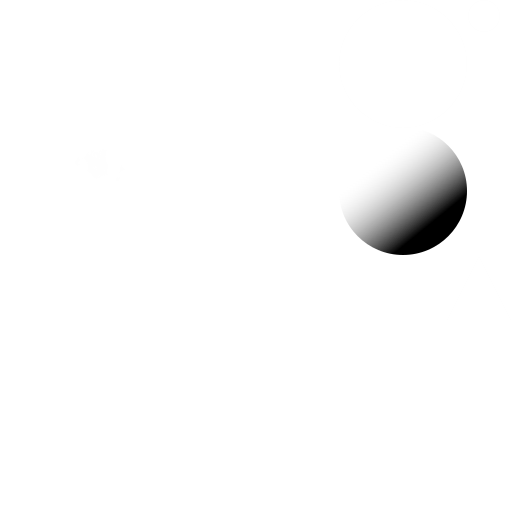
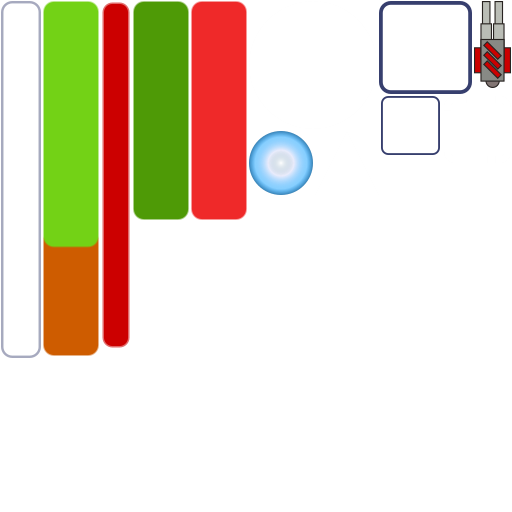
IGDC-159 Merged atlases

Changed region(s): [[0.0, 0.0, 0.625, 0.7188], [0.6562, 0.0, 1.0, 0.5]]

diff --git a/app/game/rpg-game/scenes/treasure.scene.ts b/app/game/rpg-game/scenes/treasure.scene.ts
@@ -47,7 +47,7 @@ export class TreasureScene extends Scene implements IRenderable {
   load(): Promise<void> {
     console.log('Treasure scene is loaded');
     this.initGui();
-    this.renderHelper = new RenderHelper(GLOBAL.assets.font, GLOBAL.assets.planetMaterial);
+    this.renderHelper = new RenderHelper(GLOBAL.assets.font, GLOBAL.assets.solarMaterial);
 
     this.title = new DialogBox(120);
 
@@ -71,7 +71,7 @@ export class TreasureScene extends Scene implements IRenderable {
     this.playerInventory.onClick = (cell) => this.onInventoryCellClick(cell);
 
     this.selectedCellBorder = new Sprite();
-    const selectedCellRegion = GLOBAL.assets.planetAtlas.getRegion('inventory_cell_selected.png');
+    const selectedCellRegion = GLOBAL.assets.solarAtlas.getRegion('inventory_cell_selected.png');
     this.selectedCellBorder.setTextureRegion(selectedCellRegion);
     this.selectedCellBorder.setVerticesColor(0.7, 1.0, 0.7, 1.0);
     this.selectedCellBorder.position.set(-100, -100, 10);
@@ -120,7 +120,7 @@ export class TreasureScene extends Scene implements IRenderable {
     this.guiSpriteBatch = new SpriteBatch();
     this.guiTextBatch = new TextBatch(GLOBAL.assets.font);
     this.guiManager = new GuiManager(
-      GLOBAL.assets.planetMaterial,
+      GLOBAL.assets.solarMaterial,
       this.guiSpriteBatch,
       this.guiTextBatch,
       GLOBAL.assets.guiCamera,

diff --git a/app/game/rpg-game/scenes/planet.scene.ts b/app/game/rpg-game/scenes/planet.scene.ts
@@ -57,7 +57,7 @@ export class PlanetScene extends Scene implements IRenderable {
   load(): Promise<void> {
     this.initGui();
 
-    this.renderHelper = new RenderHelper(GLOBAL.assets.font, GLOBAL.assets.planetMaterial);
+    this.renderHelper = new RenderHelper(GLOBAL.assets.font, GLOBAL.assets.solarMaterial);
 
     this.player = Player.build(PLANET_GAME_STATE.player, this.guiManager);
     this.shop = new Shop(PLANET_GAME_STATE.planet, 480, 260, this.guiManager);
@@ -118,7 +118,7 @@ export class PlanetScene extends Scene implements IRenderable {
     this.guiSB = new SpriteBatch();
     this.guiTB = new TextBatch(GLOBAL.assets.font);
     this.guiManager = new GuiManager(
-      GLOBAL.assets.planetMaterial,
+      GLOBAL.assets.solarMaterial,
       this.guiSB,
       this.guiTB,
       GLOBAL.assets.guiCamera,
@@ -158,7 +158,7 @@ export class PlanetScene extends Scene implements IRenderable {
     this.noMoneyText.visible = false;
 
     this.selectedCellBorder = new Sprite();
-    const selectedCellRegion = GLOBAL.assets.planetAtlas.getRegion('inventory_cell_selected.png');
+    const selectedCellRegion = GLOBAL.assets.solarAtlas.getRegion('inventory_cell_selected.png');
     this.selectedCellBorder.setTextureRegion(selectedCellRegion);
     this.selectedCellBorder.setVerticesColor(0.7, 1.0, 0.7, 1.0);
     this.selectedCellBorder.position.set(-100, -100, 10);

diff --git a/app/game/rpg-game/assets/assets.ts b/app/game/rpg-game/assets/assets.ts
@@ -9,7 +9,7 @@ import { Camera } from '../../../engine/scene/camera';
 import { AudioManager } from '../../../engine/sound/audio-manager';
 import { DEFAULT_FONT, DEFAULT_MATERIAL, DEFAULT_SHADER } from './default';
 import { MUSIC_DATA, SOUNDS_DATA } from './sound.data';
-import { DEFAULT_ATLAS_DATA, PLANET_ATLAS_DATA } from './textures';
+import { DEFAULT_ATLAS_DATA } from './textures';
 
 export class Assets {
   shader: ShaderProgram;
@@ -17,9 +17,6 @@ export class Assets {
 
   solarAtlas: TextureAtlas;
   solarMaterial: Material;
-
-  planetAtlas: TextureAtlas;
-  planetMaterial: Material;
 
   font: Font;
 
@@ -49,10 +46,6 @@ export class Assets {
     DEFAULT_MATERIAL.textures[0].texture = undefined;
     DEFAULT_MATERIAL.textures[0].textureAtlas = this.solarAtlas;
     this.solarMaterial = await this.loaders.loadMaterial(DEFAULT_MATERIAL);
-
-    this.planetAtlas = await this.loaders.loadTextureAtlas(PLANET_ATLAS_DATA);
-    DEFAULT_MATERIAL.textures[0].textureAtlas = this.planetAtlas;
-    this.planetMaterial = await this.loaders.loadMaterial(DEFAULT_MATERIAL);
 
     await soundLoading;
 

diff --git a/app/game/rpg-game/scenes/defeated.scene.ts b/app/game/rpg-game/scenes/defeated.scene.ts
@@ -24,10 +24,10 @@ export class DefeatedMenuScene extends Scene implements IRenderable {
   }
 
   load(): Promise<void> {
-    this.renderHelper = new RenderHelper(GLOBAL.assets.font, GLOBAL.assets.planetMaterial);
+    this.renderHelper = new RenderHelper(GLOBAL.assets.font, GLOBAL.assets.solarMaterial);
 
     this.guiManager = new GuiManager(
-      GLOBAL.assets.planetMaterial,
+      GLOBAL.assets.solarMaterial,
       this.renderHelper.spriteBatch,
       this.renderHelper.textBatch,
       GLOBAL.assets.guiCamera,
@@ -58,7 +58,7 @@ export class DefeatedMenuScene extends Scene implements IRenderable {
     this.background = new Sprite(renderer.width - 10, renderer.height - 10, new Vector2(0, 0));
     this.background.position.set(5, 5, 30);
     this.background.setVerticesColor(0, 0, 0, 0.8);
-    this.background.setTextureRegion(GLOBAL.assets.planetAtlas.getRegion('blank.png'), false);
+    this.background.setTextureRegion(GLOBAL.assets.solarAtlas.getRegion('blank.png'), false);
 
     return super.load();
   }

diff --git a/app/game/rpg-game/scenes/start.scene.ts b/app/game/rpg-game/scenes/start.scene.ts
@@ -24,10 +24,10 @@ export class StartMenuScene extends Scene implements IRenderable {
   }
 
   load(): Promise<void> {
-    this.renderHelper = new RenderHelper(GLOBAL.assets.font, GLOBAL.assets.planetMaterial);
+    this.renderHelper = new RenderHelper(GLOBAL.assets.font, GLOBAL.assets.solarMaterial);
 
     this.guiManager = new GuiManager(
-      GLOBAL.assets.planetMaterial,
+      GLOBAL.assets.solarMaterial,
       this.renderHelper.spriteBatch,
       this.renderHelper.textBatch,
       GLOBAL.assets.guiCamera,
@@ -62,7 +62,7 @@ export class StartMenuScene extends Scene implements IRenderable {
     this.background = new Sprite(renderer.width - 10, renderer.height - 10, new Vector2(0, 0));
     this.background.position.set(5, 5, 30);
     this.background.setVerticesColor(0, 0, 0, 0.8);
-    this.background.setTextureRegion(GLOBAL.assets.planetAtlas.getRegion('blank.png'), false);
+    this.background.setTextureRegion(GLOBAL.assets.solarAtlas.getRegion('blank.png'), false);
 
     return super.load();
   }

diff --git a/app/game/rpg-game/scenes/endgame.scene.ts b/app/game/rpg-game/scenes/endgame.scene.ts
@@ -25,10 +25,10 @@ export class EndgameScene extends Scene implements IRenderable {
   }
 
   load(): Promise<void> {
-    this.renderHelper = new RenderHelper(GLOBAL.assets.font, GLOBAL.assets.planetMaterial);
+    this.renderHelper = new RenderHelper(GLOBAL.assets.font, GLOBAL.assets.solarMaterial);
 
     this.guiManager = new GuiManager(
-      GLOBAL.assets.planetMaterial,
+      GLOBAL.assets.solarMaterial,
       this.renderHelper.spriteBatch,
       this.renderHelper.textBatch,
       GLOBAL.assets.guiCamera,
@@ -61,7 +61,7 @@ export class EndgameScene extends Scene implements IRenderable {
     this.background = new Sprite(renderer.width - 10, renderer.height - 10, new Vector2(0, 0));
     this.background.position.set(5, 5, 30);
     this.background.setVerticesColor(0, 0, 0, 0.8);
-    this.background.setTextureRegion(GLOBAL.assets.planetAtlas.getRegion('blank.png'), false);
+    this.background.setTextureRegion(GLOBAL.assets.solarAtlas.getRegion('blank.png'), false);
 
     return super.load();
   }

diff --git a/app/game/rpg-game/planet/inventory.ts b/app/game/rpg-game/planet/inventory.ts
@@ -81,7 +81,7 @@ export class InventoryCell {
   item?: BaseItem;
 
   constructor(x: number, y: number, gui: GuiManager, itemData?: InventoryItemData) {
-    const region = GLOBAL.assets.planetAtlas.getRegion('inventory_cell.png');
+    const region = GLOBAL.assets.solarAtlas.getRegion('inventory_cell.png');
 
     this.back = new GuiButton();
     this.back.sprite.position.set(x, y, 5);
@@ -202,7 +202,7 @@ export class BaseItem {
     item.rarity = itemData.rarity;
     item.type = itemData.type;
 
-    const itemRegion = GLOBAL.assets.planetAtlas.getRegion(itemRegionName || 'blank.png');
+    const itemRegion = GLOBAL.assets.solarAtlas.getRegion(itemRegionName || 'blank.png');
     item.sprite = new Sprite(40, 40);
     item.sprite.setTextureRegion(itemRegion, !!itemRegionName);
     item.sprite.position.set(0, 0, 6);

diff --git a/app/game/rpg-game/scenes/fight.scene.ts b/app/game/rpg-game/scenes/fight.scene.ts
@@ -60,14 +60,14 @@ export class FightScene extends Scene {
     this.guiSB = new SpriteBatch();
     this.guiTB = new TextBatch(GLOBAL.assets.font);
     this.guiManager = new GuiManager(
-      GLOBAL.assets.planetMaterial,
+      GLOBAL.assets.solarMaterial,
       this.guiSB,
       this.guiTB,
       GLOBAL.assets.guiCamera,
     );
 
     this.actionManager = new ActionManager();
-    this.renderHelper = new RenderHelper(GLOBAL.assets.font, GLOBAL.assets.planetMaterial);
+    this.renderHelper = new RenderHelper(GLOBAL.assets.font, GLOBAL.assets.solarMaterial);
     this.emitter = new SpriteParticleEmitter(
       this.renderHelper,
       () => ParticleEmitterExtensions.createSmallParticle(),

diff --git a/app/game/rpg-game/planet/item-description.ts b/app/game/rpg-game/planet/item-description.ts
@@ -23,8 +23,8 @@ export class ItemDescription implements IRenderable {
   cost: Text;
 
   constructor(x: number, y: number, w: number, h: number) {
-    const itemBackRegion = GLOBAL.assets.planetAtlas.getRegion('ship_cell.png');
-    const blankRegion = GLOBAL.assets.planetAtlas.getRegion('blank.png');
+    const itemBackRegion = GLOBAL.assets.solarAtlas.getRegion('ship_cell.png');
+    const blankRegion = GLOBAL.assets.solarAtlas.getRegion('blank.png');
 
     this.back = new Sprite(w, h, new Vector2(0, 0));
     this.back.position.set(x, y, 1);

diff --git a/app/game/rpg-game/planet/health-bar.ts b/app/game/rpg-game/planet/health-bar.ts
@@ -13,8 +13,8 @@ export class HealthBar {
   originalWidth: number;
 
   constructor(x: number, y: number) {
-    const backRegion = GLOBAL.assets.planetAtlas.getRegion('health_bar_back.png');
-    const currentRegion = GLOBAL.assets.planetAtlas.getRegion('health_bar.png');
+    const backRegion = GLOBAL.assets.solarAtlas.getRegion('health_bar_back.png');
+    const currentRegion = GLOBAL.assets.solarAtlas.getRegion('health_bar.png');
 
     this.back = new Sprite(1, 1, new Vector2(0, 0));
     this.back.position.set(x, y, 2);

diff --git a/app/game/rpg-game/planet/player.ts b/app/game/rpg-game/planet/player.ts
@@ -25,7 +25,7 @@ export class Player implements IRenderable {
     player.background = new Sprite(playerW, renderer.height - 80, new Vector2(0, 0));
     player.background.position.set(10, 70, 1);
     player.background.setVerticesColor(52 / 255, 111 / 255, 149 / 255, 1.0);
-    const region = GLOBAL.assets.planetAtlas.getRegion('blank.png');
+    const region = GLOBAL.assets.solarAtlas.getRegion('blank.png');
     player.background.setTextureRegion(region, false);
 
     const start = 340;

diff --git a/app/game/rpg-game/fight/player.ts b/app/game/rpg-game/fight/player.ts
@@ -29,7 +29,7 @@ export class Player implements IRenderable {
 
     player.background = new Sprite(playerW, renderer.height - 150, new Vector2(0, 0));
     player.background.setVerticesColor(52 / 255, 111 / 255, 149 / 255, 1.0);
-    const region = GLOBAL.assets.planetAtlas.getRegion('blank.png');
+    const region = GLOBAL.assets.solarAtlas.getRegion('blank.png');
     player.background.setTextureRegion(region, false);
 
     switch (player.type) {
